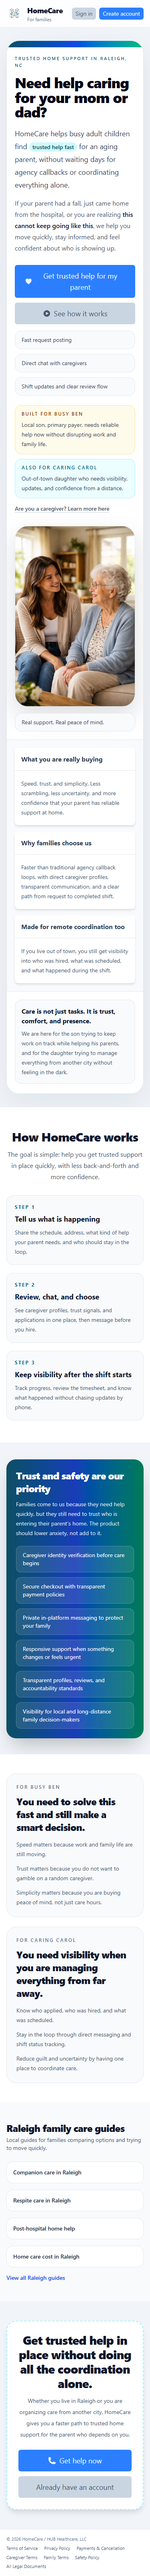
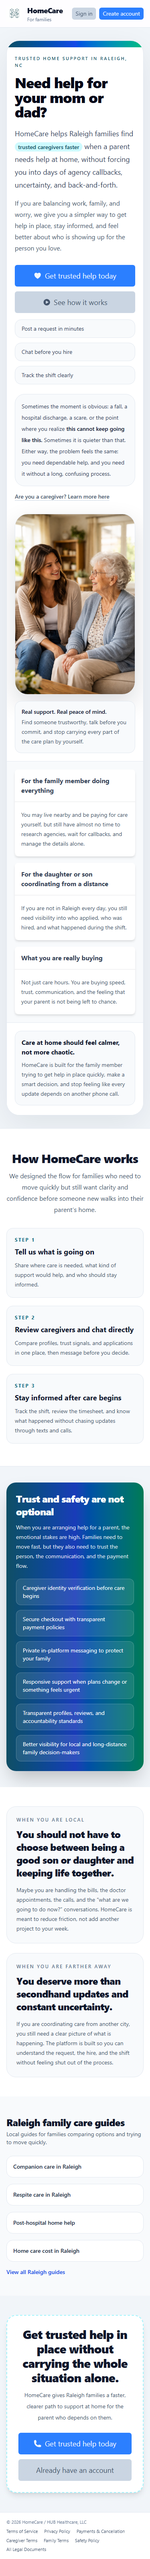
up

Changed region(s): [[0.0293, 0.0312, 0.968, 0.9662], [0.9387, 0.9038, 0.968, 0.9662], [0.0293, 0.9038, 0.0587, 0.9662]]

diff --git a/resources/views/livewire/family-landing.blade.php b/resources/views/livewire/family-landing.blade.php
@@ -27,32 +27,30 @@
         <div class="overflow-hidden rounded-[2rem] border border-slate-200 bg-white shadow-[0_24px_80px_rgba(15,23,42,0.08)]">
             <div class="h-4 bg-gradient-to-r from-cyan-900 via-blue-700 to-emerald-500"></div>
 
-            <div class="grid gap-8 p-5 sm:p-6 lg:grid-cols-[1.08fr_0.92fr] lg:gap-10 lg:p-8">
+            <div class="grid gap-8 p-5 sm:p-6 lg:grid-cols-[1.05fr_0.95fr] lg:gap-10 lg:p-8">
                 <div>
                     <div class="text-[11px] font-semibold uppercase tracking-[0.24em] text-cyan-900 sm:text-xs">
                         Trusted home support in Raleigh, NC
                     </div>
 
-                    <h1 class="mt-4 max-w-2xl text-4xl font-black leading-[1.02] tracking-tight text-slate-950 sm:text-5xl lg:text-[3.6rem]">
-                        Need help caring for your mom or dad?
+                    <h1 class="mt-4 max-w-2xl text-4xl font-black leading-[1.02] tracking-tight text-slate-950 sm:text-5xl lg:text-[3.65rem]">
+                        Need help for your mom or dad?
                     </h1>
 
                     <p class="mt-5 max-w-2xl text-lg leading-8 text-slate-700">
-                        HomeCare helps busy adult children find
-                        <span class="rounded-full bg-cyan-100 px-2 py-0.5 text-sm font-semibold text-cyan-900">trusted help fast</span>
-                        for an aging parent, without waiting days for agency callbacks or coordinating everything alone.
+                        HomeCare helps Raleigh families find
+                        <span class="rounded-full bg-cyan-100 px-2 py-0.5 text-sm font-semibold text-cyan-900">trusted caregivers faster</span>
+                        when a parent needs help at home, without forcing you into days of agency callbacks, uncertainty, and back-and-forth.
                     </p>
 
                     <p class="mt-4 max-w-2xl text-base leading-7 text-slate-600 sm:text-lg">
-                        If your parent had a fall, just came home from the hospital, or you are realizing
-                        <span class="font-semibold text-slate-900">this cannot keep going like this</span>,
-                        we help you move quickly, stay informed, and feel confident about who is showing up.
+                        If you are balancing work, family, and worry, we give you a simpler way to get help in place, stay informed, and feel better about who is showing up for the person you love.
                     </p>
 
                     <div class="mt-7 grid grid-cols-1 gap-3 sm:flex sm:flex-wrap">
                         <a href="{{ route('register') }}">
                             <x-button color="blue" lg icon="heart" position="left" class="w-full justify-center sm:w-auto">
-                                Get trusted help for my parent
+                                Get trusted help today
                             </x-button>
                         </a>
                         <a href="#how-it-works">
@@ -63,20 +61,17 @@
                     </div>
 
                     <div class="mt-4 grid gap-3 text-sm sm:grid-cols-3">
-                        <div class="rounded-2xl border border-slate-200 bg-slate-50 px-4 py-3 text-slate-700">Fast request posting</div>
-                        <div class="rounded-2xl border border-slate-200 bg-slate-50 px-4 py-3 text-slate-700">Direct chat with caregivers</div>
-                        <div class="rounded-2xl border border-slate-200 bg-slate-50 px-4 py-3 text-slate-700">Shift updates and clear review flow</div>
+                        <div class="rounded-2xl border border-slate-200 bg-slate-50 px-4 py-3 text-slate-700">Post a request in minutes</div>
+                        <div class="rounded-2xl border border-slate-200 bg-slate-50 px-4 py-3 text-slate-700">Chat before you hire</div>
+                        <div class="rounded-2xl border border-slate-200 bg-slate-50 px-4 py-3 text-slate-700">Track the shift clearly</div>
                     </div>
 
-                    <div class="mt-6 grid gap-3 sm:grid-cols-2">
-                        <div class="rounded-2xl border border-amber-200 bg-amber-50 px-4 py-3">
-                            <div class="text-xs font-semibold uppercase tracking-[0.18em] text-amber-800">Built for Busy Ben</div>
-                            <p class="mt-2 text-sm leading-6 text-slate-700">Local son, primary payer, needs reliable help now without disrupting work and family life.</p>
-                        </div>
-                        <div class="rounded-2xl border border-cyan-200 bg-cyan-50 px-4 py-3">
-                            <div class="text-xs font-semibold uppercase tracking-[0.18em] text-cyan-800">Also for Caring Carol</div>
-                            <p class="mt-2 text-sm leading-6 text-slate-700">Out-of-town daughter who needs visibility, updates, and confidence from a distance.</p>
-                        </div>
+                    <div class="mt-6 rounded-3xl border border-slate-200 bg-slate-50 p-4 sm:p-5">
+                        <p class="text-sm leading-7 text-slate-700 sm:text-base">
+                            Sometimes the moment is obvious: a fall, a hospital discharge, a scare, or the point where you realize
+                            <span class="font-semibold text-slate-900">this cannot keep going like this.</span>
+                            Sometimes it is quieter than that. Either way, the problem feels the same: you need dependable help, and you need it without a long, confusing process.
+                        </p>
                     </div>
 
                     <a href="{{ route('landing.caregiver') }}" class="mt-4 inline-flex text-sm font-medium text-slate-600 underline decoration-slate-300 underline-offset-4 sm:hidden">
@@ -93,34 +88,37 @@
                         />
                     </div>
 
-                    <div class="rounded-2xl border border-slate-200 bg-slate-50 px-4 py-3 text-sm text-slate-700">
-                        Real support. Real peace of mind.
+                    <div class="rounded-2xl border border-slate-200 bg-slate-50 px-4 py-4 text-sm text-slate-700">
+                        <div class="font-semibold text-slate-900">Real support. Real peace of mind.</div>
+                        <p class="mt-1 leading-6 text-slate-600">
+                            Find someone trustworthy, talk before you commit, and stop carrying every part of the care plan by yourself.
+                        </p>
                     </div>
                 </div>
             </div>
 
             <div class="grid gap-4 border-t border-slate-200 bg-slate-50 p-5 sm:p-6 lg:grid-cols-3 lg:p-8">
                 <x-card class="ring-1 ring-black/5">
+                    <x-slot:header><div class="font-bold">For the family member doing everything</div></x-slot:header>
+                    <p class="text-sm leading-6 text-slate-600">You may live nearby and be paying for care yourself, but still have almost no time to research agencies, wait for callbacks, and manage the details alone.</p>
+                </x-card>
+
+                <x-card class="ring-1 ring-black/5">
+                    <x-slot:header><div class="font-bold">For the daughter or son coordinating from a distance</div></x-slot:header>
+                    <p class="text-sm leading-6 text-slate-600">If you are not in Raleigh every day, you still need visibility into who applied, who was hired, and what happened during the shift.</p>
+                </x-card>
+
+                <x-card class="ring-1 ring-black/5">
                     <x-slot:header><div class="font-bold">What you are really buying</div></x-slot:header>
-                    <p class="text-sm leading-6 text-slate-600">Speed, trust, and simplicity. Less scrambling, less uncertainty, and more confidence that your parent has reliable support at home.</p>
-                </x-card>
-
-                <x-card class="ring-1 ring-black/5">
-                    <x-slot:header><div class="font-bold">Why families choose us</div></x-slot:header>
-                    <p class="text-sm leading-6 text-slate-600">Faster than traditional agency callback loops, with direct caregiver profiles, transparent communication, and a clear path from request to completed shift.</p>
-                </x-card>
-
-                <x-card class="ring-1 ring-black/5">
-                    <x-slot:header><div class="font-bold">Made for remote coordination too</div></x-slot:header>
-                    <p class="text-sm leading-6 text-slate-600">If you live out of town, you still get visibility into who was hired, what was scheduled, and what happened during the shift.</p>
+                    <p class="text-sm leading-6 text-slate-600">Not just care hours. You are buying speed, trust, communication, and the feeling that your parent is not being left to chance.</p>
                 </x-card>
             </div>
 
             <div class="border-t border-slate-200 bg-white px-5 pb-6 pt-5 sm:px-6 lg:px-8">
                 <div class="rounded-2xl border border-slate-200 bg-slate-50 px-4 py-4">
-                    <p class="text-base font-bold text-slate-900">Care is not just tasks. It is trust, comfort, and presence.</p>
+                    <p class="text-base font-bold text-slate-900">Care at home should feel calmer, not more chaotic.</p>
                     <p class="mt-2 text-sm leading-6 text-slate-600 sm:text-base">
-                        We are here for the son trying to keep work on track while helping his parents, and for the daughter trying to manage everything from another city without feeling in the dark.
+                        HomeCare is built for the family member trying to get help in place quickly, make a smart decision, and stop feeling like every update depends on another phone call.
                     </p>
                 </div>
             </div>
@@ -132,27 +130,27 @@
             <div class="mb-8 text-center">
                 <h2 class="text-3xl font-extrabold tracking-tight sm:text-4xl">How HomeCare works</h2>
                 <p class="mx-auto mt-3 max-w-2xl text-base leading-7 text-slate-600 sm:text-lg">
-                    The goal is simple: help you get trusted support in place quickly, with less back-and-forth and more confidence.
+                    We designed the flow for families who need to move quickly but still want clarity and confidence before someone new walks into their parent’s home.
                 </p>
             </div>
 
             <div class="grid gap-5 md:grid-cols-3">
                 <div class="rounded-2xl border border-slate-200 bg-slate-50 p-5 sm:p-6">
                     <div class="text-xs font-bold uppercase tracking-[0.18em] text-cyan-800">Step 1</div>
-                    <div class="mt-2 text-lg font-bold">Tell us what is happening</div>
-                    <p class="mt-2 text-sm leading-6 text-slate-600">Share the schedule, address, what kind of help your parent needs, and who should stay in the loop.</p>
+                    <div class="mt-2 text-lg font-bold">Tell us what is going on</div>
+                    <p class="mt-2 text-sm leading-6 text-slate-600">Share where care is needed, what kind of support would help, and who should stay informed.</p>
                 </div>
 
                 <div class="rounded-2xl border border-slate-200 bg-slate-50 p-5 sm:p-6">
                     <div class="text-xs font-bold uppercase tracking-[0.18em] text-cyan-800">Step 2</div>
-                    <div class="mt-2 text-lg font-bold">Review, chat, and choose</div>
-                    <p class="mt-2 text-sm leading-6 text-slate-600">See caregiver profiles, trust signals, and applications in one place, then message before you hire.</p>
+                    <div class="mt-2 text-lg font-bold">Review caregivers and chat directly</div>
+                    <p class="mt-2 text-sm leading-6 text-slate-600">Compare profiles, trust signals, and applications in one place, then message before you decide.</p>
                 </div>
 
                 <div class="rounded-2xl border border-slate-200 bg-slate-50 p-5 sm:p-6">
                     <div class="text-xs font-bold uppercase tracking-[0.18em] text-cyan-800">Step 3</div>
-                    <div class="mt-2 text-lg font-bold">Keep visibility after the shift starts</div>
-                    <p class="mt-2 text-sm leading-6 text-slate-600">Track progress, review the timesheet, and know what happened without chasing updates by phone.</p>
+                    <div class="mt-2 text-lg font-bold">Stay informed after care begins</div>
+                    <p class="mt-2 text-sm leading-6 text-slate-600">Track the shift, review the timesheet, and know what happened without chasing updates through texts and calls.</p>
                 </div>
             </div>
         </div>
@@ -160,18 +158,18 @@
 
     <section class="mx-auto max-w-6xl px-4 py-10 sm:px-6 lg:px-8">
         <div class="rounded-3xl bg-gradient-to-r from-cyan-900 via-blue-800 to-emerald-700 p-6 text-white shadow-2xl sm:p-8">
-            <h3 class="text-2xl font-extrabold tracking-tight sm:text-3xl">Trust and safety are our priority</h3>
+            <h3 class="text-2xl font-extrabold tracking-tight sm:text-3xl">Trust and safety are not optional</h3>
             <p class="mt-3 max-w-3xl text-sm leading-6 text-white/85 sm:text-base">
-                Families come to us because they need help quickly, but they still need to trust who is entering their parent’s home. The product should lower anxiety, not add to it.
+                When you are arranging help for a parent, the emotional stakes are high. Families need to move fast, but they also need to trust the person, the communication, and the payment flow.
             </p>
 
             <div class="mt-5 grid gap-3 md:grid-cols-2">
                 <div class="rounded-xl border border-white/20 bg-white/10 px-4 py-3 text-sm">Caregiver identity verification before care begins</div>
                 <div class="rounded-xl border border-white/20 bg-white/10 px-4 py-3 text-sm">Secure checkout with transparent payment policies</div>
                 <div class="rounded-xl border border-white/20 bg-white/10 px-4 py-3 text-sm">Private in-platform messaging to protect your family</div>
-                <div class="rounded-xl border border-white/20 bg-white/10 px-4 py-3 text-sm">Responsive support when something changes or feels urgent</div>
+                <div class="rounded-xl border border-white/20 bg-white/10 px-4 py-3 text-sm">Responsive support when plans change or something feels urgent</div>
                 <div class="rounded-xl border border-white/20 bg-white/10 px-4 py-3 text-sm">Transparent profiles, reviews, and accountability standards</div>
-                <div class="rounded-xl border border-white/20 bg-white/10 px-4 py-3 text-sm">Visibility for local and long-distance family decision-makers</div>
+                <div class="rounded-xl border border-white/20 bg-white/10 px-4 py-3 text-sm">Better visibility for local and long-distance family decision-makers</div>
             </div>
         </div>
     </section>
@@ -180,23 +178,19 @@
         <div class="mx-auto max-w-6xl px-4 sm:px-6 lg:px-8">
             <div class="grid gap-6 lg:grid-cols-2">
                 <div class="rounded-3xl border border-slate-200 bg-slate-50 p-6">
-                    <div class="text-xs font-semibold uppercase tracking-[0.2em] text-slate-500">For Busy Ben</div>
-                    <h3 class="mt-3 text-2xl font-extrabold tracking-tight">You need to solve this fast and still make a smart decision.</h3>
-                    <ul class="mt-4 space-y-3 text-sm leading-6 text-slate-600">
-                        <li>Speed matters because work and family life are still moving.</li>
-                        <li>Trust matters because you do not want to gamble on a random caregiver.</li>
-                        <li>Simplicity matters because you are buying peace of mind, not just care hours.</li>
-                    </ul>
+                    <div class="text-xs font-semibold uppercase tracking-[0.2em] text-slate-500">When you are local</div>
+                    <h3 class="mt-3 text-2xl font-extrabold tracking-tight">You should not have to choose between being a good son or daughter and keeping life together.</h3>
+                    <p class="mt-4 text-sm leading-6 text-slate-600">
+                        Maybe you are handling the bills, the doctor appointments, the calls, and the “what are we going to do now?” conversations. HomeCare is meant to reduce friction, not add another project to your week.
+                    </p>
                 </div>
 
                 <div class="rounded-3xl border border-slate-200 bg-slate-50 p-6">
-                    <div class="text-xs font-semibold uppercase tracking-[0.2em] text-slate-500">For Caring Carol</div>
-                    <h3 class="mt-3 text-2xl font-extrabold tracking-tight">You need visibility when you are managing everything from far away.</h3>
-                    <ul class="mt-4 space-y-3 text-sm leading-6 text-slate-600">
-                        <li>Know who applied, who was hired, and what was scheduled.</li>
-                        <li>Stay in the loop through direct messaging and shift status tracking.</li>
-                        <li>Reduce guilt and uncertainty by having one place to coordinate care.</li>
-                    </ul>
+                    <div class="text-xs font-semibold uppercase tracking-[0.2em] text-slate-500">When you are farther away</div>
+                    <h3 class="mt-3 text-2xl font-extrabold tracking-tight">You deserve more than secondhand updates and constant uncertainty.</h3>
+                    <p class="mt-4 text-sm leading-6 text-slate-600">
+                        If you are coordinating care from another city, you still need a clear picture of what is happening. The platform is built so you can understand the request, the hire, and the shift without feeling shut out of the process.
+                    </p>
                 </div>
             </div>
         </div>
@@ -229,14 +223,14 @@
 
     <section class="mx-auto max-w-6xl px-4 py-12 sm:px-6 lg:px-8">
         <div class="rounded-3xl border-2 border-dashed border-cyan-200 bg-white p-7 text-center shadow-lg sm:p-10">
-            <h3 class="text-3xl font-extrabold tracking-tight">Get trusted help in place without doing all the coordination alone.</h3>
+            <h3 class="text-3xl font-extrabold tracking-tight">Get trusted help in place without carrying the whole situation alone.</h3>
             <p class="mx-auto mt-3 max-w-3xl text-sm leading-7 text-slate-600 sm:text-base">
-                Whether you live in Raleigh or you are organizing care from another city, HomeCare gives you a faster path to trusted home support for the parent who depends on you.
+                HomeCare gives Raleigh families a faster, clearer path to support at home for the parent who depends on them.
             </p>
 
             <div class="mt-6 grid grid-cols-1 gap-3 sm:flex sm:flex-wrap sm:justify-center">
                 <a href="{{ route('register') }}">
-                    <x-button color="blue" lg icon="phone" position="left" class="w-full justify-center sm:w-auto">Get help now</x-button>
+                    <x-button color="blue" lg icon="phone" position="left" class="w-full justify-center sm:w-auto">Get trusted help today</x-button>
                 </a>
                 <a href="{{ route('login') }}">
                     <x-button color="slate" lg light class="w-full justify-center sm:w-auto">Already have an account</x-button>
